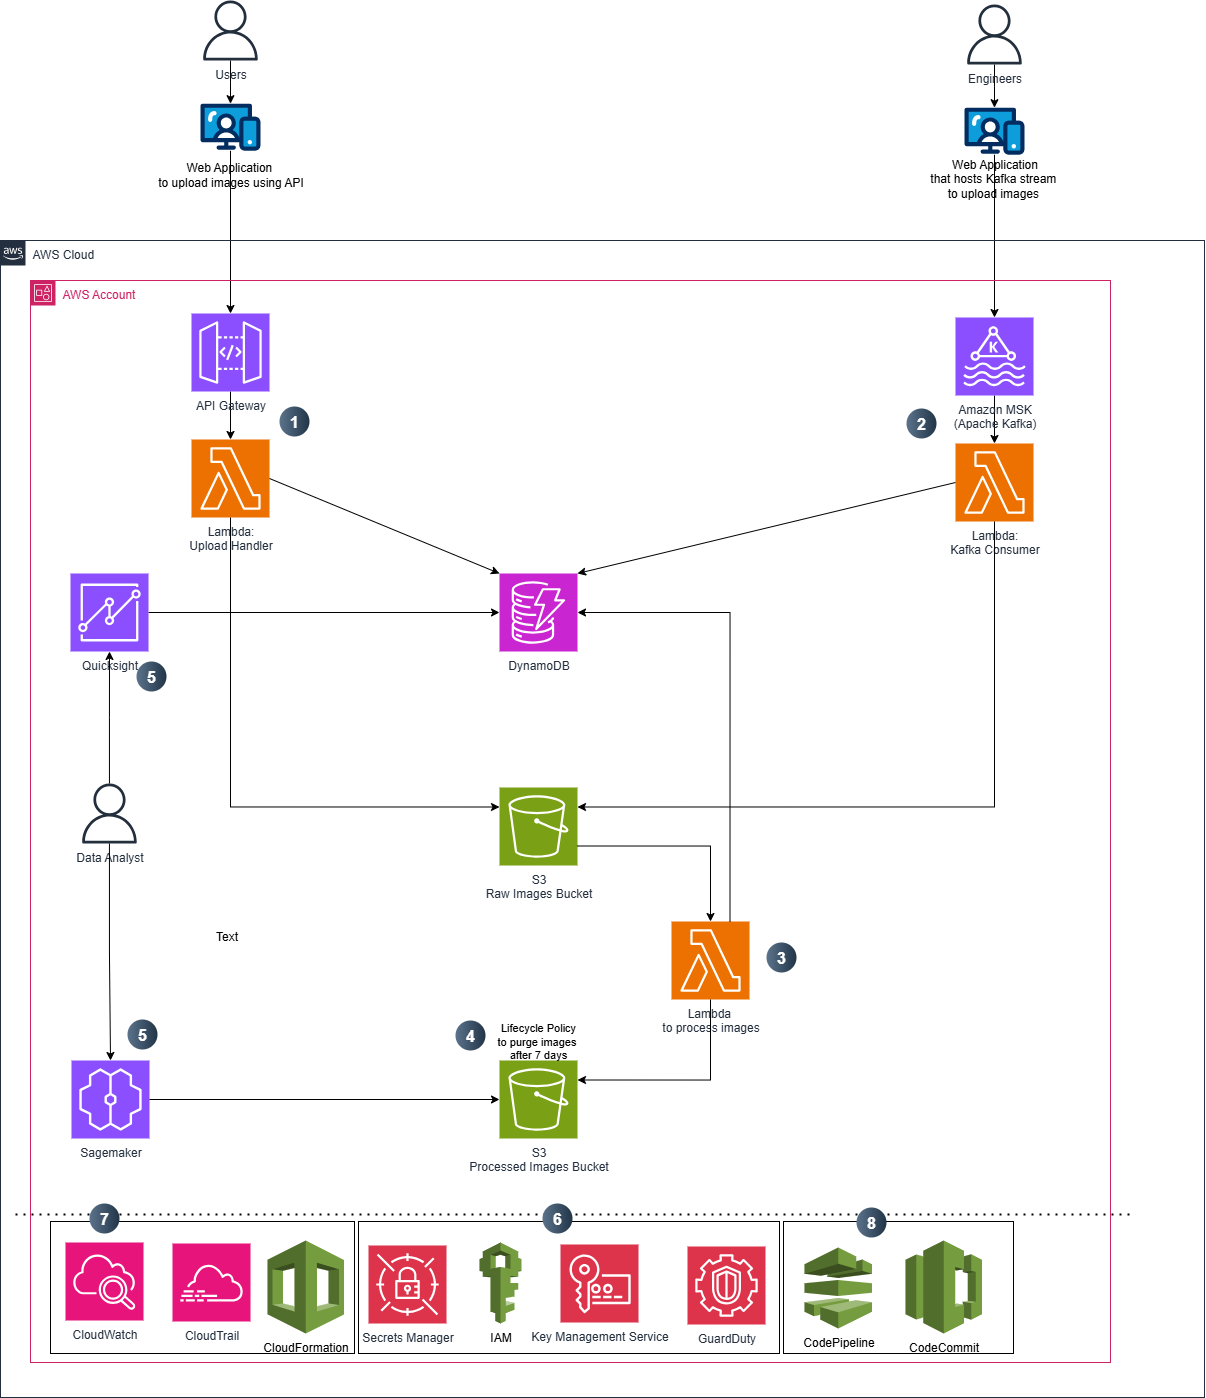
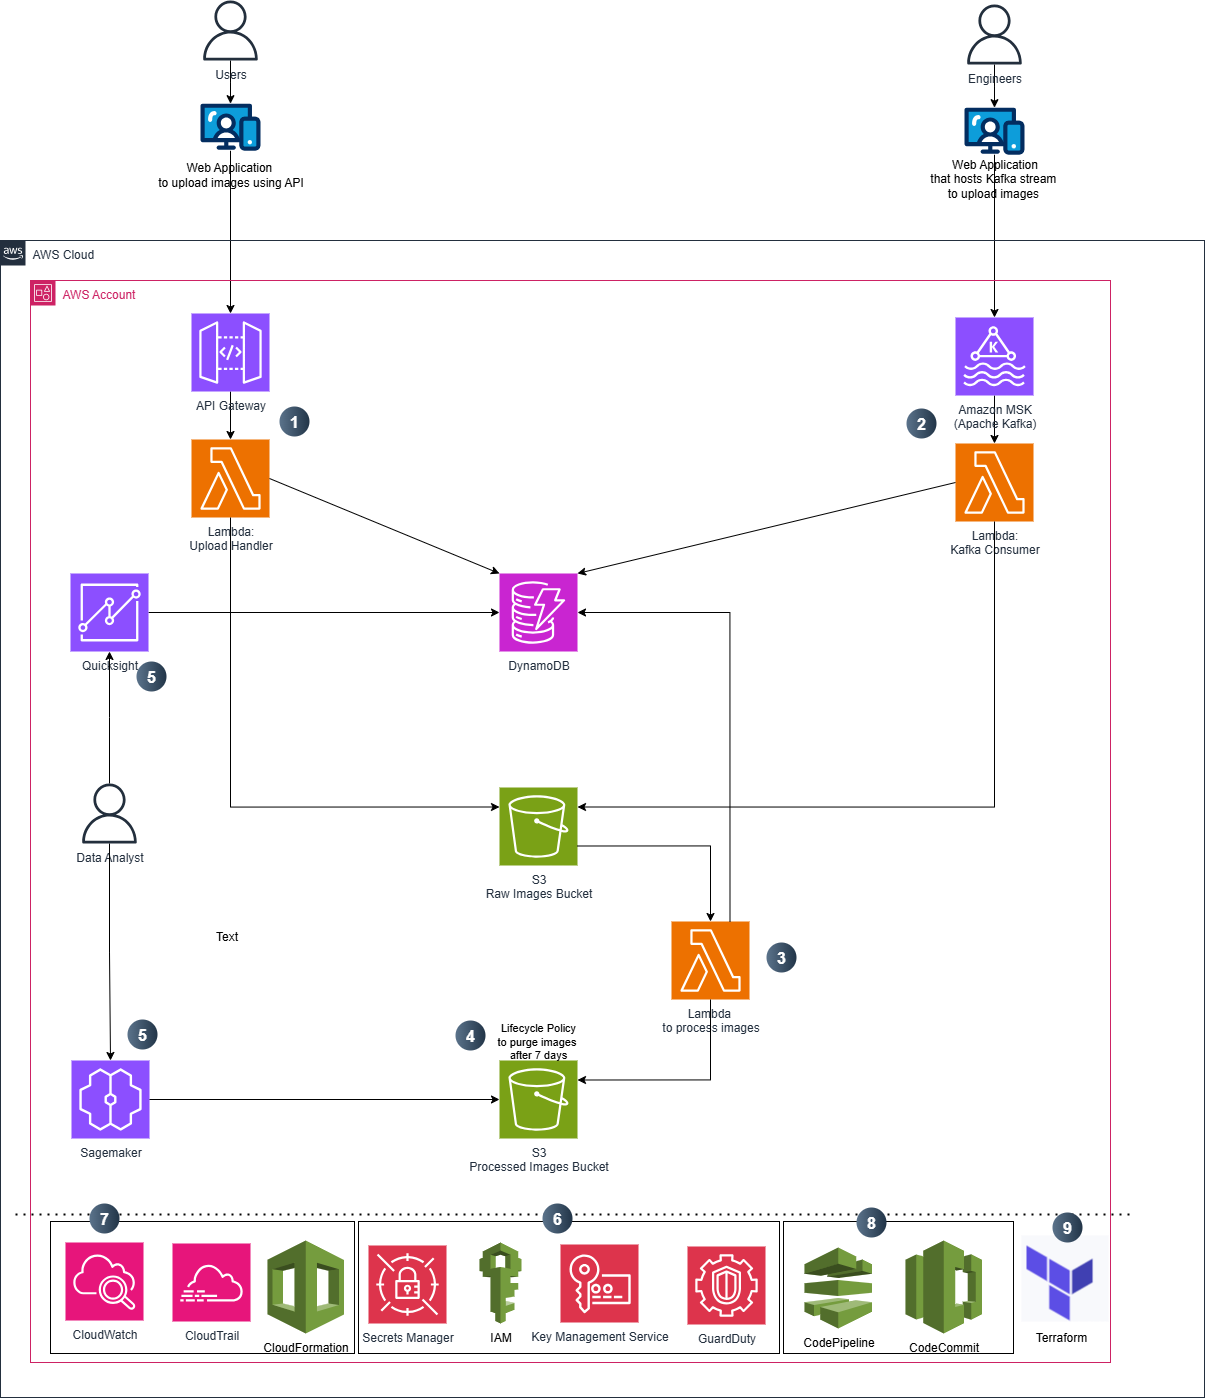
Add files via upload

diff --git a/section_3/readme.md b/section_3/readme.md
@@ -87,8 +87,11 @@ After the design is finalized, I will oversee the implementation phase, assign t
 ![view here](architecture_design.png)
 
 1. Image Ingestion from API-based uploads (from web app)
-	- Amazon API Gateway: Exposes REST API securely.
-	- AWS Lambda (Upload Handler): Validates image, stores metadata in DynamoDB.
+	- Amazon API Gateway:
+		- API Gateway as a secure entry point: This is its primary function—it acts as the "front door" for your API resources.
+		- Default payload limit is 10MB: AWS documentation confirms that the maximum payload size for requests sent through API Gateway (both REST and HTTP APIs) is a hard limit of 10 MB.
+		- Direct upload feasibility: Since the client-side file is limited to 10MB, it meets the exact payload limit of the API Gateway, meaning a direct upload is technically feasible without requiring workarounds like using S3 pre-signed URLs.
+	- AWS Lambda (Upload Handler): Validates image, stores metadata in DynamoDB. AWS Lambda function acts as a secure intermediary. Instead of handling the image data directly, which can be inefficient, it generates a pre-signed URL for an Amazon S3 bucket. This URL lets the client bypass API Gateway and Lambda's payload limits by securely uploading the image directly to S3, which is considered a best practice.
 	- Amazon S3 (Raw Image Bucket): Stores uploaded images temporarily.
 
 2. Image processing from Kafka-based uploads
@@ -126,7 +129,10 @@ After the design is finalized, I will oversee the implementation phase, assign t
 
 8. Maintenance
 	- Containerized processing code enables versioning and easy updates.
-	- AWS CodePipeline (CI/CD) → A fully managed service that automates continuous integration and continuous delivery, streamlining application and infrastructure updates.	
+	- AWS CodePipeline (CI/CD) → A fully managed service that automates continuous integration and continuous delivery, streamlining application and infrastructure updates.
+
+9. Infrastructure provisioning	
+	- Terraform automates infrastructure provisioning, with its scripts stored and version-controlled in AWS CodeCommit.
 
 [Back to Top](#table-of-contents)
 
